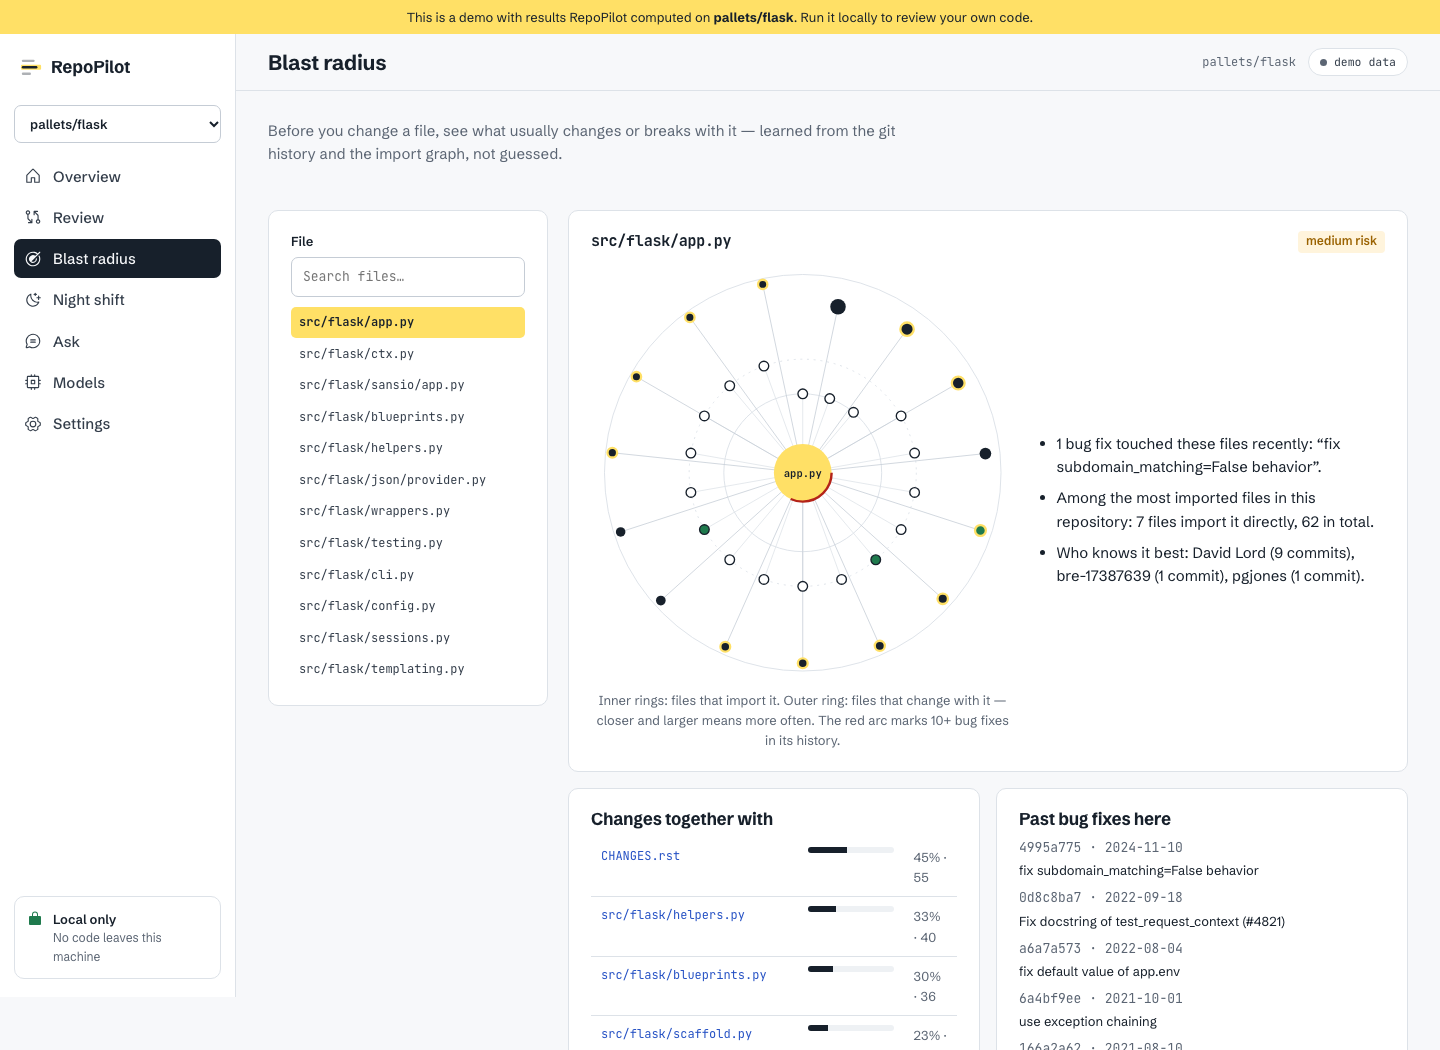
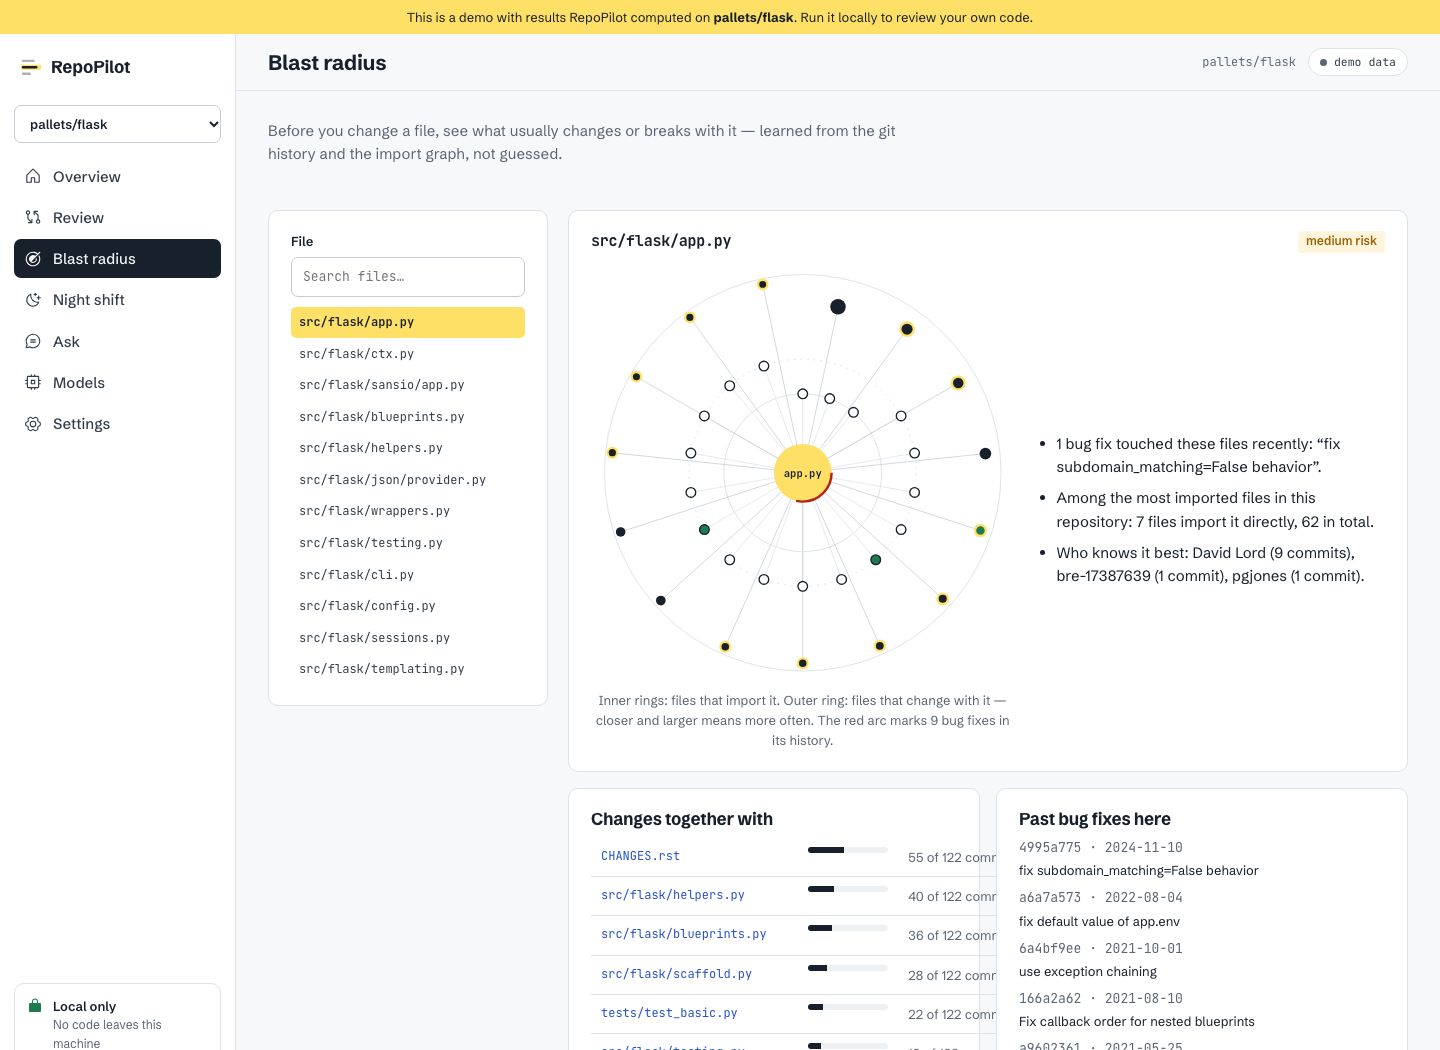
fix: treat docstring and comment chores as non-fixes; clearer co-change counts

diff --git a/web/app/app/blast/page.tsx b/web/app/app/blast/page.tsx
@@ -89,7 +89,7 @@ function BlastPage() {
                         <tr key={c.path}>
                           <td className="mono" style={{ fontSize: 12 }}><button className="link-btn" onClick={() => setPath(c.path)}>{c.path}</button></td>
                           <td style={{ width: 120 }}><div className="bar" title={`${Math.round(c.confidence * 100)}%`}><span style={{ width: `${c.confidence * 100}%` }} /></div></td>
-                          <td className="hint" style={{ width: 70 }}>{Math.round(c.confidence * 100)}% · {c.support}</td>
+                          <td className="hint" style={{ width: 120, whiteSpace: "nowrap" }}>{c.support} of {Math.round(c.support / Math.max(c.confidence, 0.01))} commits</td>
                         </tr>
                       ))}
                     </tbody></table>

diff --git a/backend/repopilot/memory/history.py b/backend/repopilot/memory/history.py
@@ -13,9 +13,9 @@ FIX_RE = re.compile(r"(?i)\b(fix|fixes|fixed|bug|bugs|hotfix|regression|revert|c
 # Tooling chores mention "fix" but are not bug fixes.
 CHORE_RE = re.compile(
     r"(?i)\b(typos?|lint|linting|mypy|pyright|flake8|ruff|pre-commit|formatting|typing|type hints?|type errors?|"
-    r"docs?|documentation|readme|changelog|ci|deprecation warnings?|spelling)\b"
+    r"docs?|docstrings?|comments?|documentation|readme|changelog|ci|deprecation warnings?|spelling)\b"
 )
-FIX_RULE_VERSION = "2"
+FIX_RULE_VERSION = "3"
 SQUASH_PR_RE = re.compile(r"\(#(\d+)\)\s*$")
 MERGE_PR_RE = re.compile(r"Merge pull request #(\d+)")
 BULK_COMMIT_FILES = 50

diff --git a/backend/tests/test_memory_history.py b/backend/tests/test_memory_history.py
@@ -135,3 +135,4 @@ def test_tooling_chores_are_not_bug_fixes():
     assert not is_fix("fix pyright type errors")
     assert not is_fix("fix typo in docs")
     assert not is_fix("Fix mypy findings")
+    assert not is_fix("Fix docstring of test_request_context (#4821)")

diff --git a/eval/results/flask-latest.md b/eval/results/flask-latest.md
@@ -1,6 +1,6 @@
 # RepoPilot evaluation — flask @ 3.1.0
 
-Mode: **offline** · models: none · 2026-10-18T17:03:39+00:00
+Mode: **offline** · models: none · 2026-10-18T17:10:08+00:00
 
 | Measure | Result |
 |---|---|
